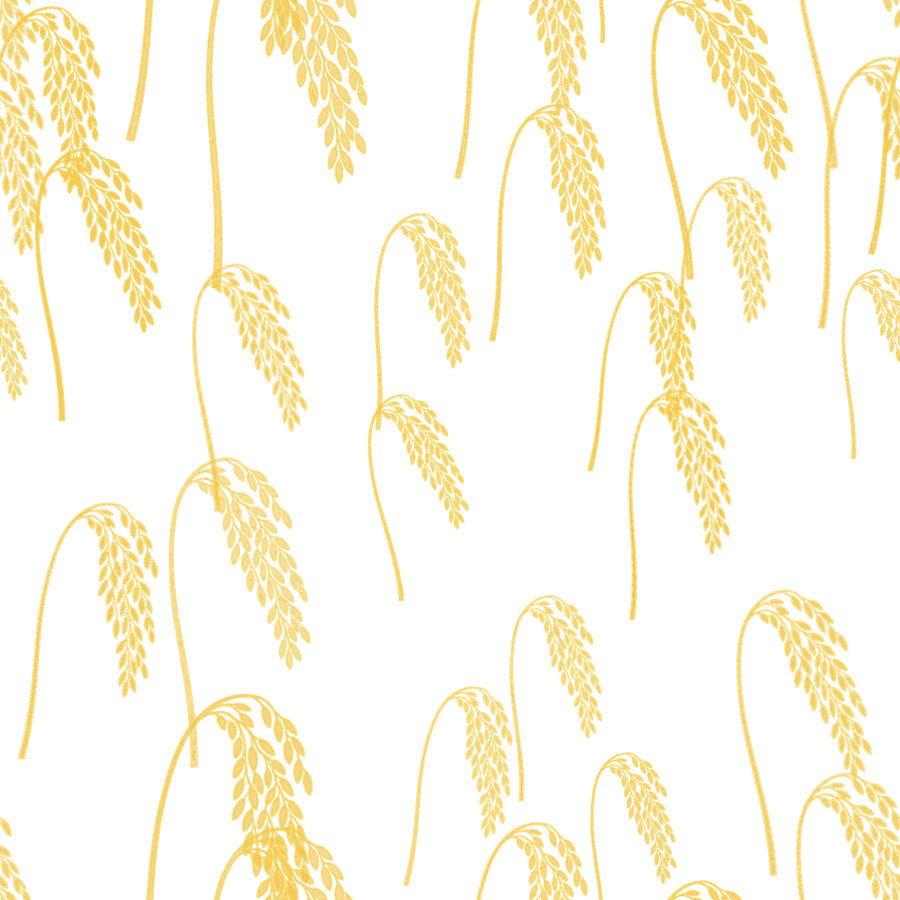
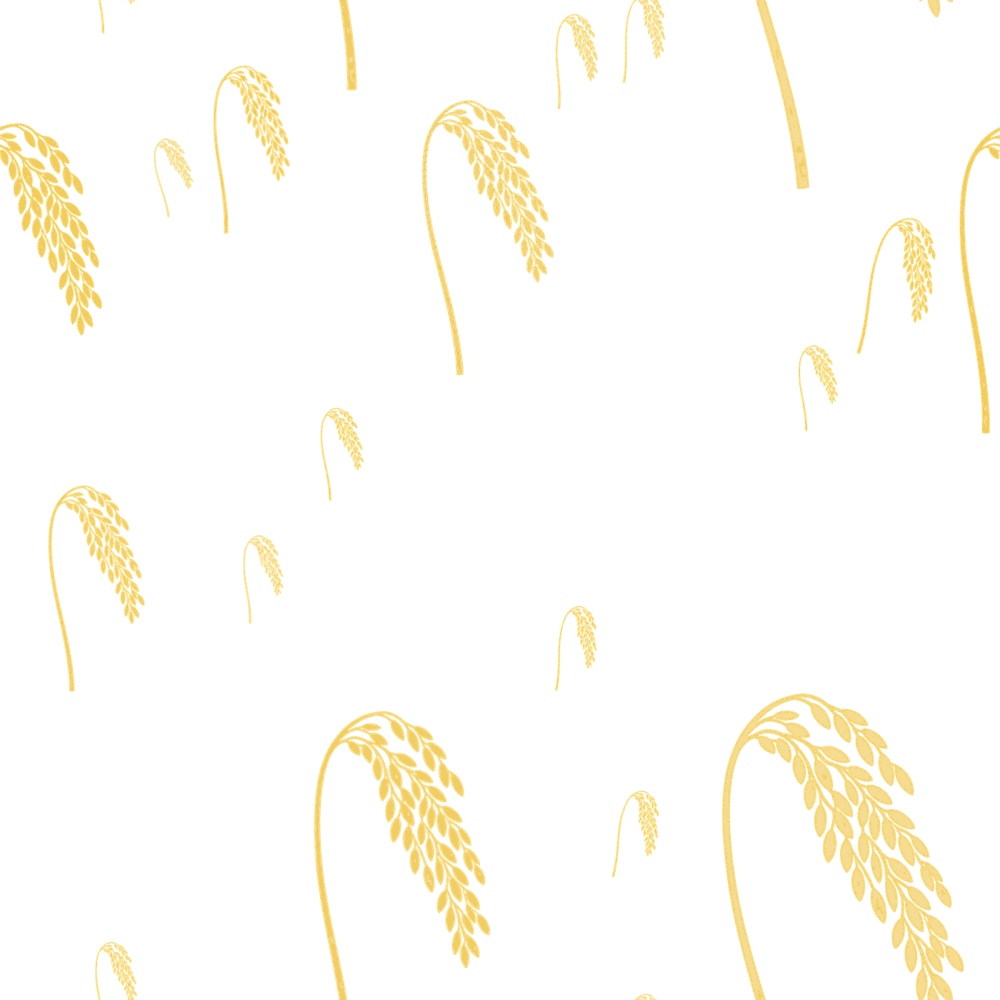
背景の稲穂: 大きさを大小 9 段階にばらけさせ、占有マスクで重なりを禁止した配置に

diff --git a/styles.css b/styles.css
@@ -1076,3 +1076,6 @@ body::before {
 .kz-credit { justify-content: center; }
 .kz-all { height: auto; flex: 0 1 46%; min-height: 0; object-fit: contain; background: #fff; margin-top: 1.6rem; }
 .kz-credit .kz-name { margin-top: 0.6rem; }
+/* v3.12 稲穂: 大小をばらけさせ、重ならない配置 */
+body::before { background-size: auto, auto, 1000px 1000px; }
+@media (max-width: 600px) { body::before { background-size: auto, auto, 760px 760px; } }
